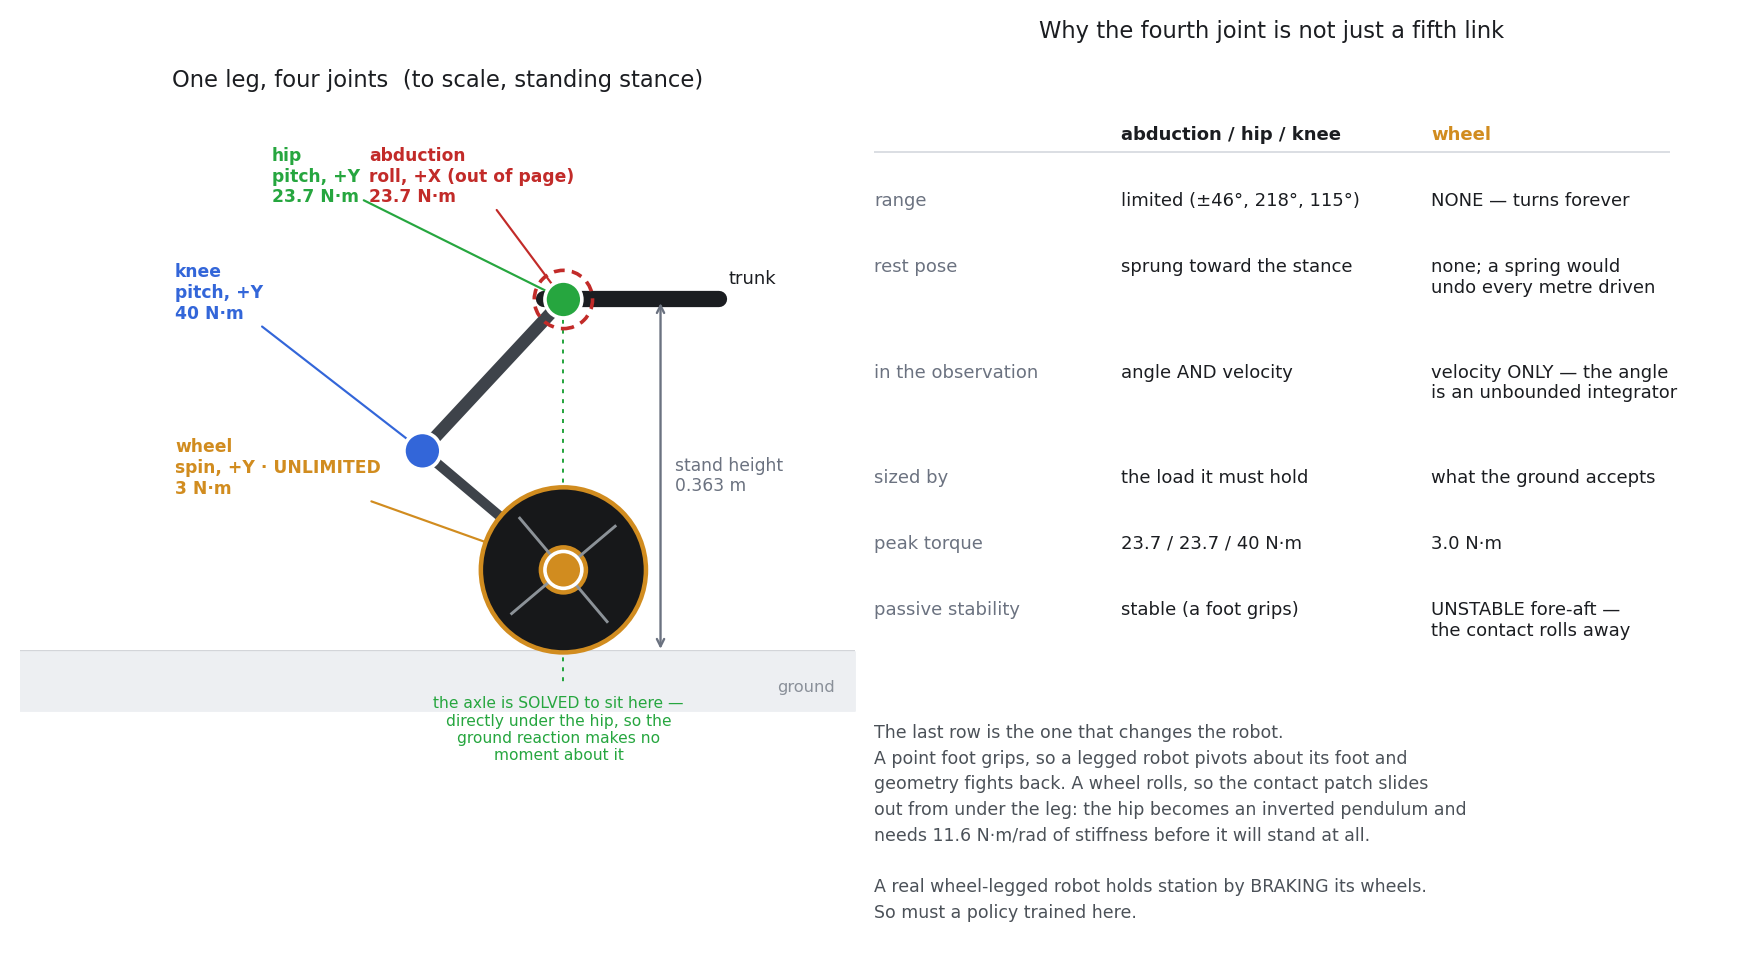
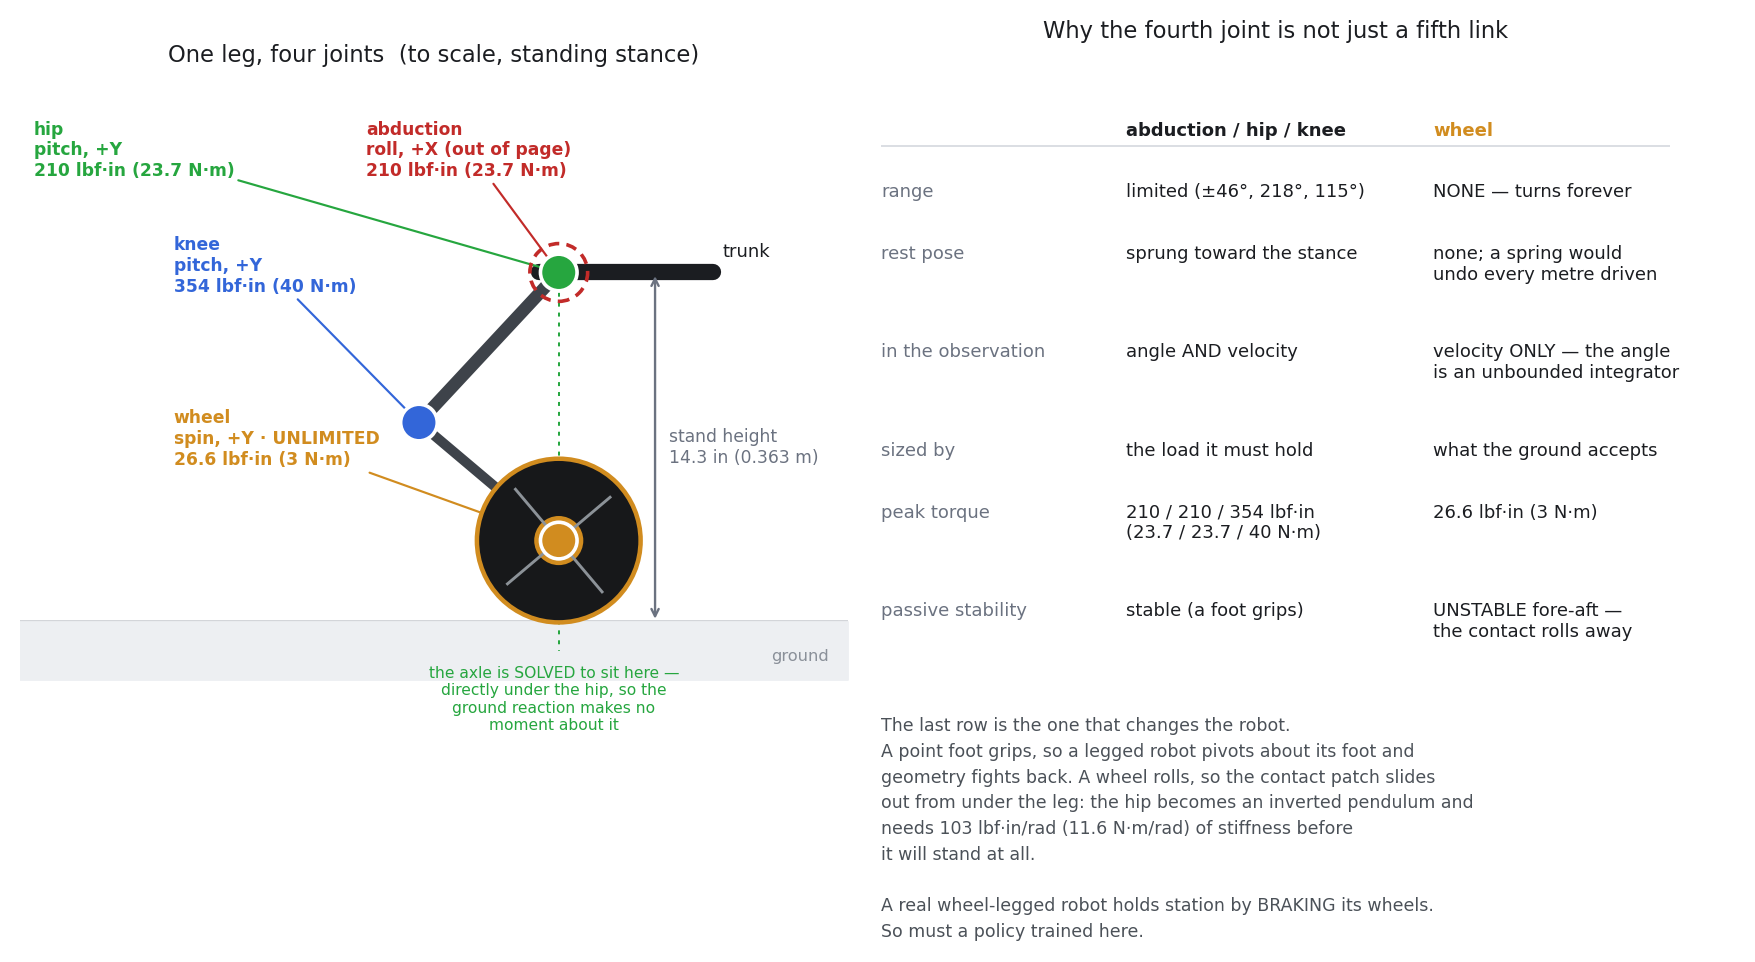
Hound diagrams: labels US-first, computed from SPEC rather than typed
_torque()/_length() helpers derive every label from SPEC through exact
NIST factors, so a label cannot drift from the SI source values.
legdiagram.png regenerated. Axis legends stay SI - converting the word
without the numeric scale would falsify the axis.

diff --git a/src/bestiary/robots/hound/render.py b/src/bestiary/robots/hound/render.py
@@ -48,6 +48,38 @@ C_KNEE = "#3366D9"
 C_WHEEL = "#D18C1F"
 C_INK = "#1B1D21"
 
+# ── Units on the labels ──────────────────────────────────────────────────────
+# These figures explain the machine to a person who reads US customary, so a
+# text label carries US first with SI in parentheses. Nothing else converts:
+# every plotted value, axis and geometry below stays SI, and every label is
+# derived here from the SI source in SPEC rather than typed, so a label cannot
+# drift away from the machine it describes.
+#
+# Both factors are exact by definition (NIST SP 811, 2008, App. B.9):
+# 1 lbf = 4.4482216152605 N and 1 in = 0.0254 m, hence 1 N·m = 8.850745... lbf·in.
+_LBF_IN_PER_N_M = 1.0 / (4.4482216152605 * 0.0254)
+_IN_PER_M = 1.0 / 0.0254
+
+
+def _sig3(x: float) -> str:
+    """Three significant figures — the resolution a figure label is read at."""
+    return f"{x:.3g}"
+
+
+def _torque(n_m: float, per: str = "") -> str:
+    """A torque as the operator reads it: 23.7 -> '210 lbf·in (23.7 N·m)'.
+
+    `per` appends the same denominator to both halves, so a stiffness is
+    `_torque(11.6, "/rad")` -> '103 lbf·in/rad (11.6 N·m/rad)'.
+    """
+    return (f"{_sig3(n_m * _LBF_IN_PER_N_M)} lbf·in{per} "
+            f"({_sig3(n_m)} N·m{per})")
+
+
+def _length(m: float) -> str:
+    """A length as the operator reads it: 0.3634 -> '14.3 in (0.363 m)'."""
+    return f"{_sig3(m * _IN_PER_M)} in ({_sig3(m)} m)"
+
 
 # ── MuJoCo renders ───────────────────────────────────────────────────────────
 def render(model_path: str, out: Path, width=1600, height=1000, *,
@@ -164,11 +196,15 @@ def leg_diagram() -> None:
 
     # joints
     # Explicit label positions: the wheel is 0.085 m across, so a generic
-    # offset puts its caption inside the tyre.
+    # offset puts its caption inside the tyre. The hip caption sits hard against
+    # the left edge because it and the abduction caption share the y = 0.10 band,
+    # and a dual-unit torque is wide enough to run one into the other.
     for pt, col, name, sub, xy in (
-        (hip, C_HIP, "hip", "pitch, +Y\n23.7 N·m", (-0.30, 0.10)),
-        (knee, C_KNEE, "knee", "pitch, +Y\n40 N·m", (-0.40, -0.02)),
-        (axle, C_WHEEL, "wheel", "spin, +Y · UNLIMITED\n3 N·m", (-0.40, -0.20)),
+        (hip, C_HIP, "hip", f"pitch, +Y\n{_torque(SPEC.gear_hip)}", (-0.545, 0.10)),
+        (knee, C_KNEE, "knee", f"pitch, +Y\n{_torque(SPEC.gear_knee)}",
+         (-0.40, -0.02)),
+        (axle, C_WHEEL, "wheel",
+         f"spin, +Y · UNLIMITED\n{_torque(SPEC.gear_wheel)}", (-0.40, -0.20)),
     ):
         axL.add_patch(Circle(pt, 0.019, facecolor=col, edgecolor="white",
                              lw=2, zorder=6))
@@ -180,7 +216,7 @@ def leg_diagram() -> None:
     # abduction lives out of plane — show it as a marker on the hip
     axL.add_patch(Circle(hip, 0.030, facecolor="none", edgecolor=C_ABDUCT,
                          lw=2, ls=(0, (3, 2)), zorder=5))
-    axL.annotate("abduction\nroll, +X (out of page)\n23.7 N·m",
+    axL.annotate(f"abduction\nroll, +X (out of page)\n{_torque(SPEC.gear_abduct)}",
                  hip, xytext=(-0.20, 0.10), fontsize=9.5,
                  color=C_ABDUCT, weight="bold",
                  arrowprops=dict(arrowstyle="-", color=C_ABDUCT, lw=1.2,
@@ -190,8 +226,8 @@ def leg_diagram() -> None:
     axL.annotate("", (hip[0] + 0.10, hip[1]), (hip[0] + 0.10, ground),
                  arrowprops=dict(arrowstyle="<->", color="#6B7280", lw=1.3))
     axL.text(hip[0] + 0.115, (hip[1] + ground) / 2,
-             f"stand height\n{SPEC.stand_z:.3f} m", fontsize=9.5, color="#6B7280",
-             va="center")
+             f"stand height\n{_length(SPEC.stand_z)}", fontsize=9.5,
+             color="#6B7280", va="center")
     axL.plot([hip[0], hip[0]], [hip[1] + 0.02, ground - 0.03], color=C_HIP,
              lw=1.1, ls=(0, (2, 3)), zorder=1)
     axL.text(hip[0] - 0.005, ground - 0.045,
@@ -216,7 +252,13 @@ def leg_diagram() -> None:
         ("rest pose", "sprung toward the stance", "none; a spring would\nundo every metre driven"),
         ("in the observation", "angle AND velocity", "velocity ONLY — the angle\nis an unbounded integrator"),
         ("sized by", "the load it must hold", "what the ground accepts"),
-        ("peak torque", "23.7 / 23.7 / 40 N·m", "3.0 N·m"),
+        ("peak torque",
+         f"{_sig3(SPEC.gear_abduct * _LBF_IN_PER_N_M)} / "
+         f"{_sig3(SPEC.gear_hip * _LBF_IN_PER_N_M)} / "
+         f"{_sig3(SPEC.gear_knee * _LBF_IN_PER_N_M)} lbf·in\n"
+         f"({_sig3(SPEC.gear_abduct)} / {_sig3(SPEC.gear_hip)} / "
+         f"{_sig3(SPEC.gear_knee)} N·m)",
+         _torque(SPEC.gear_wheel)),
         ("passive stability", "stable (a foot grips)", "UNSTABLE fore-aft —\nthe contact rolls away"),
     ]
     y = 0.92
@@ -237,7 +279,8 @@ def leg_diagram() -> None:
              "A point foot grips, so a legged robot pivots about its foot and\n"
              "geometry fights back. A wheel rolls, so the contact patch slides\n"
              "out from under the leg: the hip becomes an inverted pendulum and\n"
-             "needs 11.6 N·m/rad of stiffness before it will stand at all.\n\n"
+             f"needs {_torque(SPEC.critical_stiffness()['hip'], '/rad')} of "
+             "stiffness before\nit will stand at all.\n\n"
              "A real wheel-legged robot holds station by BRAKING its wheels.\n"
              "So must a policy trained here.",
              fontsize=9.6, color="#4B5158", va="top", linespacing=1.55)
